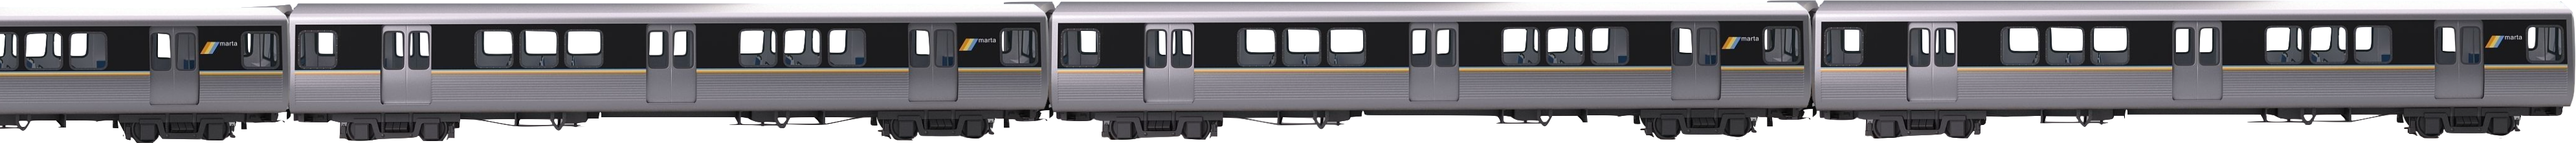
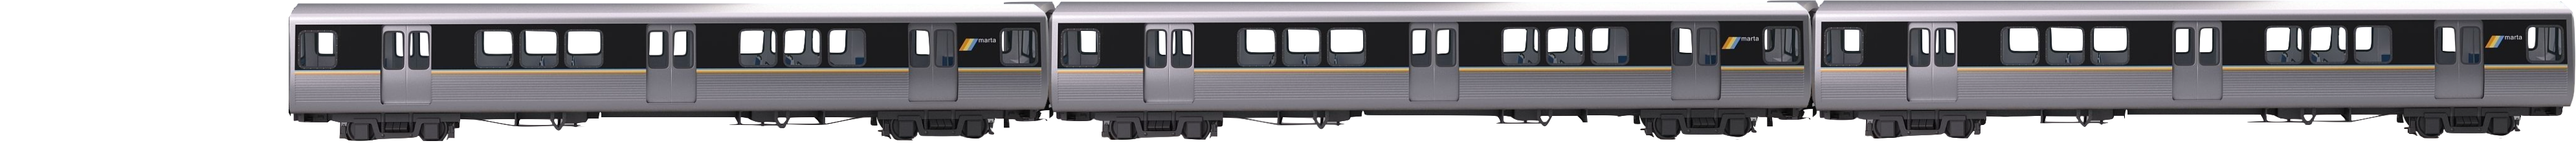
added last train animation

Changed region(s): [[0.0, 0.027, 0.1246, 1.0]]

diff --git a/src/components/Future/Future.jsx b/src/components/Future/Future.jsx
@@ -47,6 +47,23 @@ export default function Today() {
 					<br />- H
 				</p>
 			</div>
+			<Train />
 		</section>
 	);
 }
+
+const Train = () => {
+	return (
+		<img
+			className="lastTrain"
+			src={`${process.env.PUBLIC_URL}/images/marta.png`}
+			alt=""
+			style={{
+				height: "4rem",
+				transform: "translateY(5vh) translateX(100vw) scaleX(-1)",
+				marginBottom: "2rem",
+				zIndex: 10,
+			}}
+		/>
+	);
+};

diff --git a/src/components/Storyline/Storybook.jsx b/src/components/Storyline/Storybook.jsx
@@ -72,6 +72,18 @@ const Storybook = () => {
 				},
 			});
 
+			const lastTrain = gsap.utils.toArray(".lastTrain");
+			gsap.to(lastTrain, {
+				x: -500 * 4,
+				scrollTrigger: {
+					trigger: lastTrain,
+					scroller: rootRef.current,
+					start: "top bottom",
+					end: "bottom center",
+					scrub: 1,
+				},
+			});
+
 			const biker = gsap.utils.toArray(".biker");
 			gsap.to(biker, {
 				x: 150,
